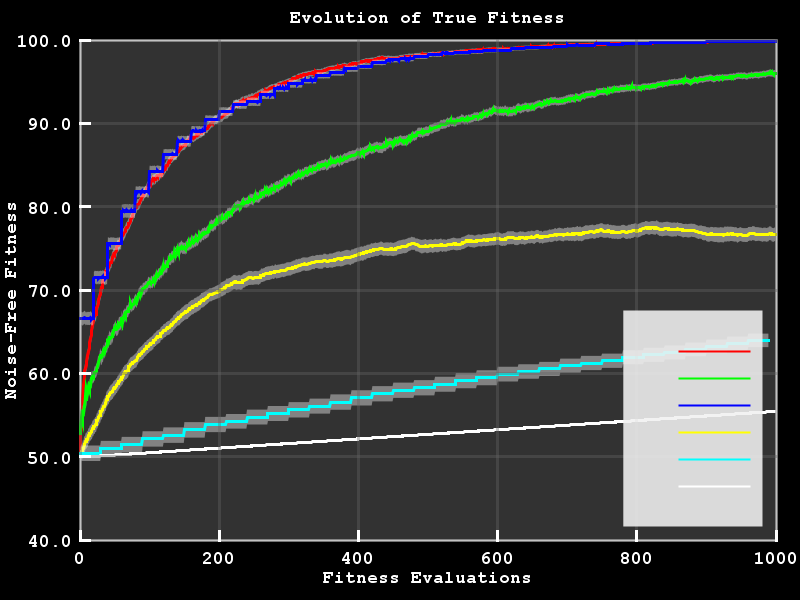
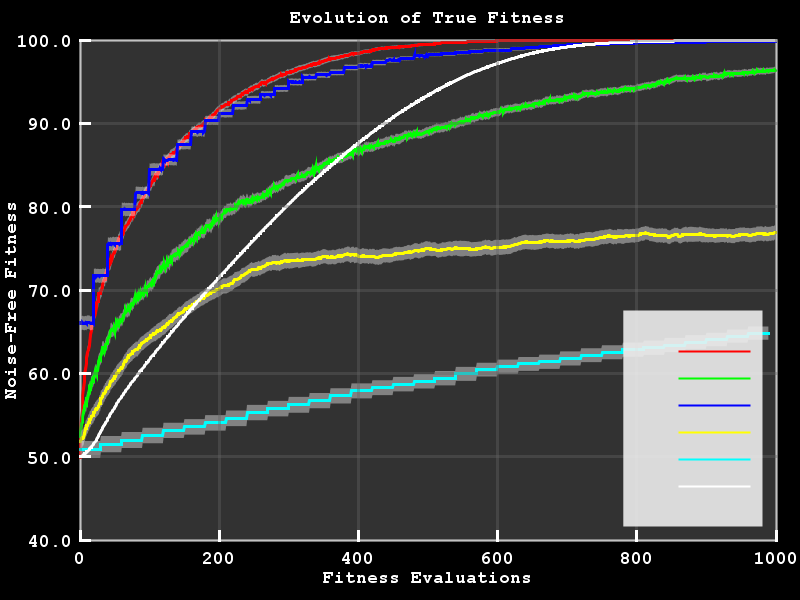
Minor updates

diff --git a/src/evodef/TestEAGraphRunTrials.java b/src/evodef/TestEAGraphRunTrials.java
@@ -40,15 +40,16 @@ public class TestEAGraphRunTrials {
         // Set up all the algorithms to test
 
         SimpleRMHC rmhc1 = new SimpleRMHC(1);
-        SimpleRMHC rmhc5 = new SimpleRMHC(15);
+        SimpleRMHC rmhc5 = new SimpleRMHC(3);
 
         int windowLength = 30;
         CompactSlidingGA slidingGA = new CompactSlidingGA().setHistoryLength(windowLength);
-        slidingGA.K = nDims * windowLength * 10;
+        slidingGA.K = nDims * windowLength / 10;
 
         int nParents = 2;
         CompactBinaryGA cga = new CompactBinaryGA().setParents(nParents);
-        cga.K = nDims * nParents * 2;
+        cga.K = nDims / 2; //  * nParents;  // setting from Jialin
+        // cga.K = nDims * nParents;
 
 
         // add them to the test list
@@ -59,7 +60,7 @@ public class TestEAGraphRunTrials {
 
         nParents = 20;
         CompactBinaryGA cga2 = new CompactBinaryGA().setParents(nParents);
-        cga2.K = nDims * nParents * 2;
+        cga2.K = nDims * nParents * 10;
 
         evos.add(cga2);
 
@@ -100,7 +101,7 @@ public class TestEAGraphRunTrials {
 
         String dir = "results/javares/sweda/";
         // String filename = "resultsPMax.png";
-        String filename = "resultsOneMax.png";
+        String filename = "resultsOneMaxPVec.png";
         lineChart.saveImage(dir, filename);
     }
 }

diff --git a/src/gvglink/SpaceBattleLinkTestTwoPlayer.java b/src/gvglink/SpaceBattleLinkTestTwoPlayer.java
@@ -25,12 +25,12 @@ import java.util.Random;
  */
 public class SpaceBattleLinkTestTwoPlayer {
 
-    public static boolean runVisible = true;
+    public static boolean runVisible = false;
     public static boolean showVisible = true;
 
     public static void main(String[] args) {
         StatSummary ss = new StatSummary();
-        int nTrials = 1;
+        int nTrials = 10;
         ElapsedTimer t = new ElapsedTimer();
 
         ArrayList<Double> results = new ArrayList<>();
@@ -97,13 +97,13 @@ public class SpaceBattleLinkTestTwoPlayer {
         double kExplore = 10;
         int nNeighbours = 100;
 
-        int nEvals = 200;
+        int nEvals = 500;
         evoAlg = new NTupleBanditEA(kExplore, nNeighbours);
 
         // evoAlg = new CompactSlidingModelGA().setHistoryLength(20);
-        evoAlg = new SlidingMeanEDA().setHistoryLength(40);
+        evoAlg = new SlidingMeanEDA().setHistoryLength(20);
 
-        EvoAlg evoAlg2 = new CompactSlidingModelGA().setHistoryLength(20);
+        EvoAlg evoAlg2 = new CompactSlidingModelGA().setHistoryLength(2);
 
 
         player1 = new controllers.multiPlayer.ea.Agent(linkState, timer, evoAlg, idPlayer1, nEvals);

diff --git a/src/ntuple/CompactSlidingGA.java b/src/ntuple/CompactSlidingGA.java
@@ -41,6 +41,11 @@ public class CompactSlidingGA implements EvoAlg {
 
     }
 
+    // set this to true to just measure pVec convergence,
+    // false to measure pVec quality (convergence to one)
+    // note: this measure only makes sense for problems
+    // where the optimal solution is all ones
+    public boolean pVecConvergenceOnly = true;
     // this decides how many vectors to generate each iteration
     public int historyLength = 20;
     ArrayList<ScoredVec> history;
@@ -124,6 +129,10 @@ public class CompactSlidingGA implements EvoAlg {
             for (double p : pVec) {
                 // clamp it to be between zero and one
                 p = Math.max(0, (Math.min(1, p)));
+                // optionally just measure it's proximity to either extreme
+                if (pVecConvergenceOnly) {
+                    p = 0.5 + Math.abs(p - 0.5);
+                }
                 pTot += p;
             }
             pVecEvo.add(pTot);

diff --git a/src/controllers/multiPlayer/discountOLMCTS/SingleTreeNode.java b/src/controllers/multiPlayer/discountOLMCTS/SingleTreeNode.java
@@ -84,7 +84,7 @@ public class SingleTreeNode
 
             nIts++;
         }
-        System.out.println("Total iterations = " + nIts);
+        // System.out.println("Total iterations = " + nIts);
     }
 
     public SingleTreeNode treePolicy(StateObservationMulti state) {
